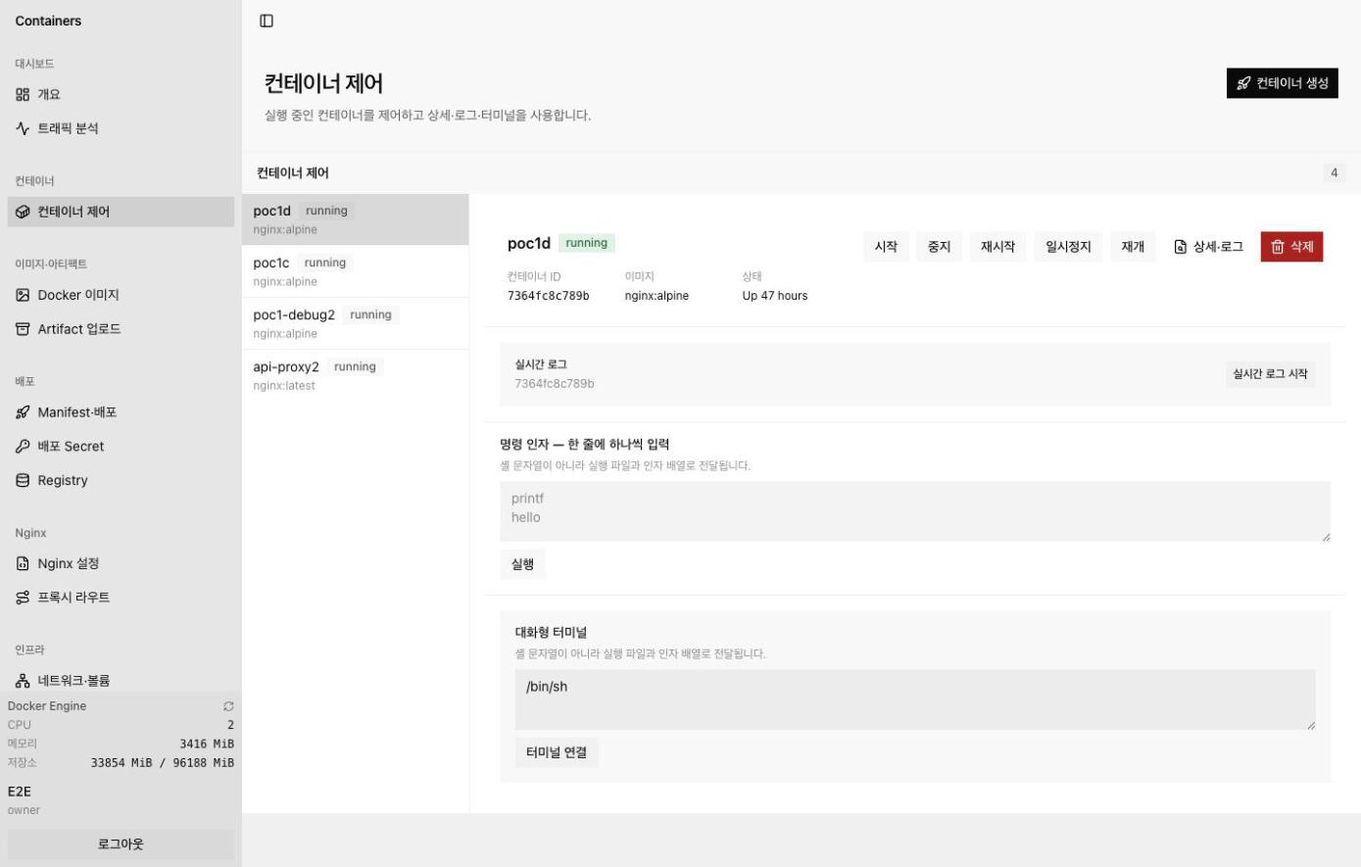
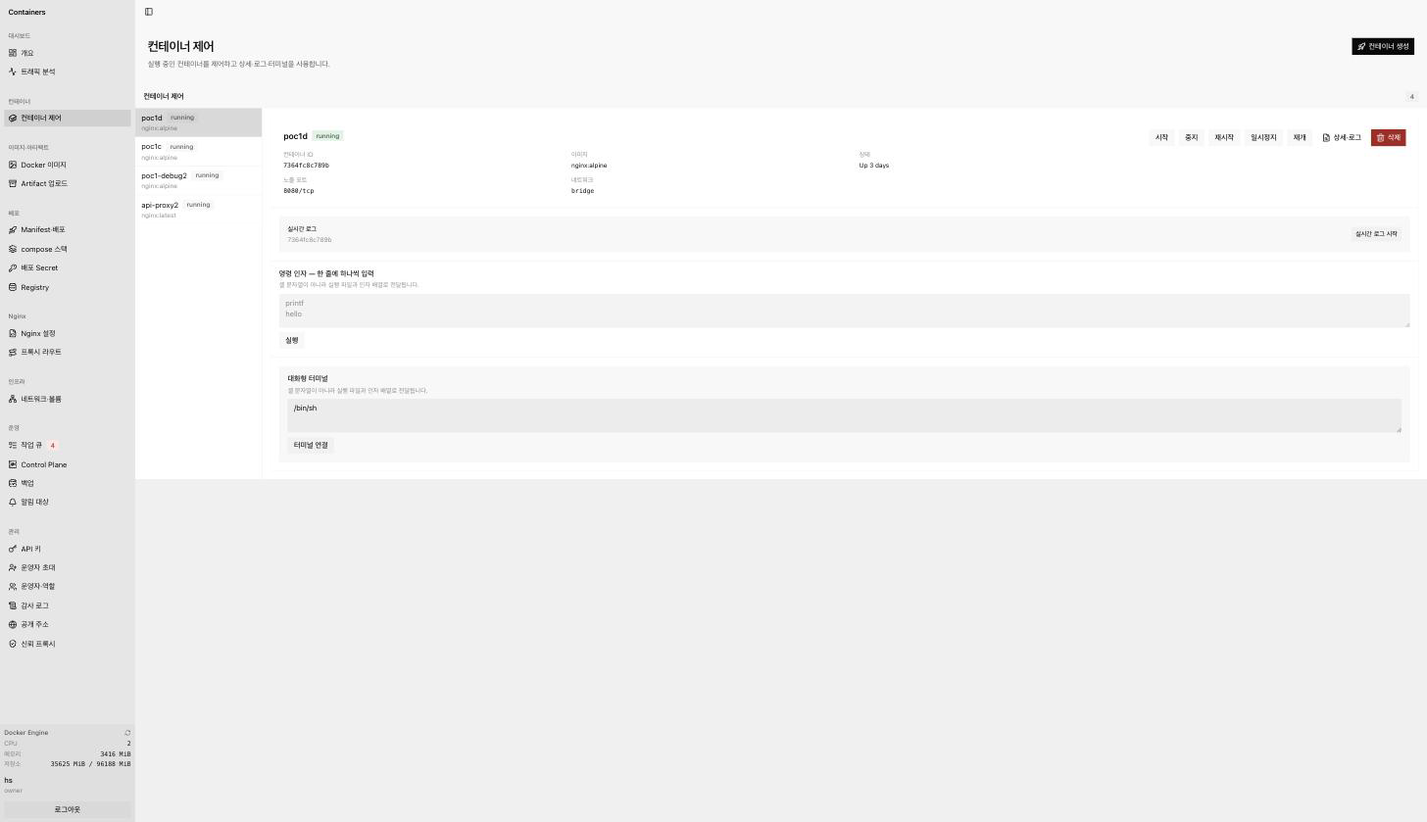
docs: 저장소와 문서를 새 세션이 바로 이어갈 수 있게 정리한다
- 브랜치를 dev 하나로 줄이고 지운 3개의 SHA 와 대체 근거를 history 에 남긴다
- README 스크린샷을 다시 찍는다. 이전 이미지는 사이드바가 잘려 운영·관리
  메뉴가 통째로 빠져 있었다
- README 의 AI 절을 containers-deploy.sh 와 CI 3종 래퍼 구조로 갱신한다
- llm-reference 드리프트 테스트에 API 자원·동작과 DB 테이블 검사를 추가한다
- HANDOFF 의 미해결·환경·다음 TODO·문서 지도를 현재 상태로 다시 쓰고,
  docs 진입점을 HANDOFF 로 정정한다

diff --git a/packages/db-schema/src/llm-reference.test.ts b/packages/db-schema/src/llm-reference.test.ts
@@ -1,5 +1,5 @@
 import { describe, expect, test } from 'bun:test'
-import { readFileSync } from 'node:fs'
+import { readdirSync, readFileSync, statSync } from 'node:fs'
 import { join } from 'node:path'
 import { API_KEY_SCOPE_VALUES } from '@containers/contracts/api-key'
 import { OPERATION_JOB_KIND } from '@containers/contracts/operation-job'
@@ -10,6 +10,25 @@ const reference = readFileSync(join(REPOSITORY_ROOT, 'docs/llm.txt'), 'utf8')
 const composeFile = readFileSync(join(REPOSITORY_ROOT, 'compose.yaml'), 'utf8')
 
 const publishedPort = /PANEL_PORT:-(\d+)/.exec(composeFile)?.[1] ?? ''
+
+const collectFiles = (directory: string): string[] =>
+    readdirSync(directory).flatMap((entry) => {
+        const path = join(directory, entry)
+        return statSync(path).isDirectory() ? collectFiles(path) : [path]
+    })
+
+const PARAMETER_PATTERN = /:[A-Za-z]+|\{[A-Za-z]+\}/g
+
+const normalizedReference = reference.replace(PARAMETER_PATTERN, '*')
+
+const routePaths = collectFiles(join(REPOSITORY_ROOT, 'apps/api/src/route'))
+    .filter((path) => path.endsWith('.ts') && !path.endsWith('.test.ts'))
+    .flatMap((path) => Array.from(readFileSync(path, 'utf8').matchAll(/\.(?:get|post|put|delete|patch)\(\s*\n?\s*'(\/[^']*)'/g)))
+    .map((match) => match[1] ?? '')
+
+const tableNames = Array.from(
+    readFileSync(join(REPOSITORY_ROOT, 'packages/db-schema/src/schema.ts'), 'utf8').matchAll(/sqliteTable\(\s*\n?\s*'([a-z_]+)'/g),
+).map((match) => match[1] ?? '')
 
 describe('docs/llm.txt 가 코드와 어긋나지 않는다', () => {
     test('API key scope 를 하나도 빠뜨리지 않는다', () => {
@@ -37,5 +56,23 @@ describe('docs/llm.txt 가 코드와 어긋나지 않는다', () => {
         expect(publishedPort).not.toBe('')
         expect(reference).toContain(`127.0.0.1:${publishedPort}`)
         expect(reference).not.toContain('127.0.0.1:8080')
+    })
+
+    test('API 자원과 동작을 하나도 빠뜨리지 않는다', () => {
+        const undocumented = routePaths.filter((path) => {
+            const segments = path.split('/').filter((segment) => segment.length > 0 && !segment.startsWith(':'))
+            const [collection] = segments
+            if (collection === undefined) return false
+            if (!normalizedReference.includes(`/api/${collection}`)) return true
+            return segments.slice(1).some((segment) => !normalizedReference.includes(segment))
+        })
+
+        expect(routePaths.length).toBeGreaterThan(0)
+        expect(Array.from(new Set(undocumented))).toEqual([])
+    })
+
+    test('DB 테이블을 하나도 빠뜨리지 않는다', () => {
+        expect(tableNames.length).toBeGreaterThan(0)
+        expect(tableNames.filter((table) => !reference.includes(table))).toEqual([])
     })
 })

diff --git a/docs/HANDOFF.md b/docs/HANDOFF.md
@@ -137,48 +137,57 @@
 
 ## 6. 미해결 질문 / 사용자 확인 필요
 
-1. **로드한 아티팩트를 지울 수 없다.** load 이력(`deployment` 행)이 아티팩트를 영구 참조해 수동 삭제도 보존 정책도 통과하지 못한다. manifest·스택도 삭제 라우트가 없다. A(이력 유지 + 파일만 회수) / B(이력째 삭제) / C(현행 유지) 중 결정이 필요하다 → [bug](./bug/2026-08-06-loaded-artifacts-cannot-be-deleted.md)
-2. **실운영 owner 를 만들어야 한다.** 지금 있는 계정은 실측용 seed(`stack-check@containers.local`) 하나다. `http://127.0.0.1:18080` 에서 bootstrap 으로 실운영 owner 를 만든 뒤 seed 계정을 지우는 것이 순서다(먼저 지우면 패널에 못 들어간다). 공개 주소에서는 bootstrap 이 403 이다.
-3. **공개 주소 설정은 여전히 비어 있다.** `hyuns.uk` 를 패널 신뢰 출처로 쓰려면 owner 로 로그인해 패널 설정에서 지정한다. 라우트 자체는 설정 없이도 동작한다(6.1·6.2 에서 확인).
-4. **control DB 고아 행의 근본 원인은 미해결이다.** 데이터는 사라졌지만 같은 경로로 다시 쌓일 수 있다. `DELETE /api/users/:id` 가 참조를 어떻게 정리할지(무효화/거부/익명화) 결정이 필요하다 → [bug/2026-08-06-control-db-orphan-user-references.md](./bug/2026-08-06-control-db-orphan-user-references.md)
-5. **`containers-dr-*` 이미지 5개**를 남겨 뒀다. 재해복구 드릴 산출물이라 "테스트 것만 삭제" 범위에서 제외했는데, 지울지 확인이 필요하다.
-6. Cloudflare Access 미적용. 패널이 공개 인터넷에 열려 있다.
-7. HSTS `preload` 미적용 — 등재 취소가 어려워 운영자 판단이 필요하다.
+앞선 5건(아티팩트·manifest·스택 삭제, 실운영 owner, 공개 주소, control DB 고아 행, 백업 불가)은 2026-08-06 에 전부 닫혔다. 남은 것은 아래 4건이다.
+
+1. **오프박스 백업이 없다 — 잔여 위험 1위.** 백업이 원본과 같은 호스트 볼륨에만 있다. 사용자 판단으로 보류(둘 곳이 없음). 외장 디스크·NAS·버킷 중 하나가 생기면 백업 job 성공 뒤 사본을 하나 더 만드는 작은 작업이다.
+2. **Cloudflare Access 미적용.** 패널이 공개 인터넷에서 로그인 화면까지 도달한다. 사용자가 "상관없다"고 판단했다. 계정 잠금·rate limit·CSP·짧은 세션이 그 전제 위의 방어다.
+3. **`containers-dr-*` 이미지 5개**를 남겨 뒀다. 재해복구 드릴 산출물이라 정리 범위에서 뺐다. 지울지 확인이 필요하다.
+4. HSTS `preload` 미적용 — 등재 취소가 어려워 운영자 판단이 필요하다.
 
 ## 7. 환경 & 전제
 
 - **런타임**: Bun 1.3.14 workspace(`apps/*` 4 + `packages/*` 4 = 8), TypeScript strict + `exactOptionalPropertyTypes` + `noUncheckedIndexedAccess`.
 - **스택**: Hono 4.13.0, Next.js 16.3.0 App Router + React 19 + React Compiler + Tailwind v4 + next-intl(ko/en/ja) + TanStack Query v5, Drizzle + SQLite, Better Auth 1.6.25.
 - **접속**: `http://127.0.0.1:18080`. **8080 이 아니다** — macOS Docker Desktop 이 그 포트에서 저속 스트림을 버퍼링한다.
-- **계정**: 실측용 seed owner `stack-check@containers.local` 하나. 실운영 owner 는 로컬 주소 bootstrap 으로 따로 만든다(§6-2). 개발 스택에서만 `bun scripts/seed-e2e.ts`.
-- **외부**: `hyuns.uk` 가 Cloudflare 터널로 연결돼 있고 `*` 와일드카드 public hostname 이 설정돼 있다. 패널 쪽 공개 주소 설정은 초기화로 비었다.
+- **계정**: 실운영 owner 하나(사용자 본인). seed 계정은 남아 있지 않다. **공개 주소가 설정된 스택에서 `bun scripts/seed-e2e.ts` 는 스스로 거부한다** — 개발 스택에서만 쓴다. 계정을 초기 상태로 되돌리는 것은 `bun scripts/reset-accounts.ts --confirm` 이며 파괴적이라 사용자가 직접 실행한다.
+- **재인증 창**: 위험한 쓰기(API key 발급, nginx 설정 적용, 백업 복원, 아티팩트 삭제 등)는 **세션 생성 15분 이내**를 요구한다(`RECENT_AUTH_REQUIRED`). 페이지 새로고침으로는 갱신되지 않고 로그아웃 → 로그인이어야 새 세션이 생긴다. 쿠키는 호스트별이라 `127.0.0.1` 과 `hyuns.uk` 세션은 별개다.
+- **외부**: `hyuns.uk` 가 Cloudflare 터널로 연결돼 있고 패널 공개 주소도 `https://hyuns.uk` 로 설정돼 있다(패널 설정 화면). nginx 패널 server 블록의 `server_name` 에 자동으로 추가된다. 터널은 스택 밖 호스트 프로세스라 초기화·재배포와 무관하다.
 - **`Bun.YAML.parse` 가 존재한다** — compose 파싱에 새 의존성이 필요 없다. multi-document 는 첫 문서만 쓴다.
-- **SQLite 주의 2가지**: `PRAGMA foreign_keys` 는 트랜잭션 안에서 무시된다(테이블 재생성 마이그레이션이 실패한다). Drizzle `text({ enum: [...] })` 는 TypeScript 전용이고 CHECK 제약을 만들지 않는다.
+- **SQLite 주의 3가지**: ① `PRAGMA foreign_keys` 는 트랜잭션 안에서 무시된다(테이블 재생성 마이그레이션이 실패한다). ② Drizzle `text({ enum: [...] })` 는 TypeScript 전용이고 CHECK 제약을 만들지 않는다. ③ **`bun:sqlite` 는 연결마다 외래 키가 기본 OFF 다.** 앱은 `database.ts` 에서 켜지만 스크립트는 스스로 켜야 하며, 끄고 지우면 `set null`·`cascade` 가 조용히 실행되지 않는다 → [bug](./bug/2026-08-06-reset-accounts-broke-referential-integrity.md)
+- **시각 컬럼은 초 단위다**: Drizzle `integer({ mode: 'timestamp' })` 는 밀리초를 버린다. 해시·비교에 시각을 넣을 때 밀리초까지 쓰면 저장·재계산이 어긋난다 → [bug](./bug/2026-08-06-audit-chain-hashed-milliseconds.md)
 - **nginx 설정 정본은 관리 볼륨의 `current.conf`** 다. `infra/nginx/nginx.conf` 는 볼륨이 비었을 때 이미지에서 복사되는 기본값이다. **볼륨만 비우고 이미지를 재빌드하지 않으면 옛 기본값이 복사된다**(이번 세션에 CSP 수정이 한 번 유실됐다). 실행 중 반영은 `POST /api/nginx/config/apply`.
 - **새 workspace 패키지**: `apps/*/Dockerfile` 4개에 `COPY` 2줄씩 추가한다.
-- **드리즐 마이그레이션**: 손으로 SQL 을 쓰지 말고 `bun run --cwd packages/db-schema generate` 를 쓴다. 최신은 `0019_smart_beyonder.sql`.
+- **드리즐 마이그레이션**: 손으로 SQL 을 쓰지 말고 `bun run --cwd packages/db-schema generate` 를 쓴다. 최신은 `0026_brave_zarek.sql`.
 - **웹 테스트는 preload 가 달라** raw `bun test` 가 아니라 `bun run test` 를 써야 한다.
 - **브라우저 실측 팁**: MCP `file_upload` 로 `<input type=file>` 에 파일을 넣으면 React state 가 갱신되지 않는다. 페이지 컨텍스트에서 `DataTransfer` 로 `input.files` 를 채우고 `change` 이벤트를 직접 dispatch 해야 폼이 인식한다. 업로드 digest 는 클라이언트가 계산하므로 sha256 불일치는 UI 로 만들 수 없다 — 실패 경로는 잘못된 tar 로 만든다.
 - **명령**: `bun run typecheck` / `lint` / `test` / `build` / `format:check`, `bun audit`, `bun run audit:runtime`, `docker compose build && docker compose up -d --wait`, `./scripts/setup.sh`, `./scripts/setup-macos.sh`, `./scripts/setup-cloudflare-tunnel.sh`, `./scripts/migration-dry-run.sh`, `bun scripts/seed-e2e.ts`, `bun scripts/reset-accounts.ts`.
 
 ## 8. 다음 세션 TODO
 
-**[PLAN-UX-REMEDIATION.md](./PLAN-UX-REMEDIATION.md) 의 미체크 항목이 정본이다.** 아래는 우선순위 요약이다.
+계획서(PLAN-UX-REMEDIATION)는 전부 닫혔다. 다음 마일스톤은 아래에서 고른다. **위에서부터 값이 크다.**
 
-1. **3.3 스택 릴리스 오케스트레이션** — 3.2 가 만든 `deployment_stack_release` 위에서 `depends_on` 위상 순서로 서비스별 릴리스, 실패 시 이미 전환된 서비스를 역순 롤백. job kind 추가 시 고쳐야 하는 곳: `packages/contracts/src/operation-job.ts`(상수 + z.enum 이중 나열), `packages/db-schema/src/schema.ts` kind enum, `create-job-handlers.ts` 핸들러 맵, `create-notification-delivery-service.ts` 의 exhaustive Record, `docs/llm.txt`(드리프트 테스트가 강제).
-2. **3.4 스택 웹 화면** — compose 업로드·미리보기·스택 배포. `artifact-file-drop` 재사용 시 `ACCEPTED_EXTENSIONS` prop 화 필요(호출부도 함께 수정).
-3. **4.1 에러 파싱 통일** — `apps/web/src/shared/lib/parse-api-error.ts` 가 `{error: issue[]}` 를 못 읽는다. finalize 실패가 raw 영어 예외 메시지로 배너에 뜨는 것(1.3 실측에서 확인)도 여기서 정리한다.
-4. **4.2~4.7 마찰 6건** → **5.1~5.3 접근성** → **6.1~6.4 최종 재검증·문서 정합·정리**
+1. **알림 실전송 확인 (5분, 사용자 1단계 필요)** — 알림 대상에 Discord webhook 을 등록하고 `system.report` 를 구독한 뒤 테스트 버튼으로 전송을 확인한다. 이걸 하기 전에는 **감사 체인 꼬리 자르기 탐지가 실제로 동작하지 않는다**(외부 checkpoint 가 이 알림이다). 첫 정기 보고는 마지막 보고가 24시간 지난 뒤 1시간 단위 tick 에서 나간다.
+2. **오프박스 백업** — 저장 위치가 정해지면 백업 job 성공 뒤 사본을 하나 더 만든다. 목적지만 다르고 모양은 같다(다른 디스크 / NAS·ssh / R2·S3). 보류 사유는 §6-1.
+3. **새 머신 설치 E2E** — 2번과 짝이다. 백업을 다른 머신에 올려 처음부터 세우는 절차를 한 번 해본다. 지금은 해본 적이 없어 복구 가능 여부가 미지수다.
+4. **부하·장애 주입** — 목표 규모 부하 테스트, 디스크 가득 참·docker 데몬 재시작·컨테이너 OOM 시 동작 확인. SQLite 단일 파일의 한계를 실측으로 잡는다.
+5. **감사 로그 export** — server-side filter 는 있고 export 가 없다(HANDOFF-STATUS P1-7).
+6. **UI 품질** — 모바일·다크·키보드·스크린리더 전수 검증(P2-2), 대시보드 정보 구조 재설계(P2-1).
+
+### 새 세션이 먼저 할 일
+
+1. 이 문서 §2.1(실운영 판정)·§6(미해결)·§7(환경) 을 읽는다.
+2. [RESUME-CHECKLIST.md](./RESUME-CHECKLIST.md) §3 읽기 전용 점검으로 현재 값을 직접 확인한다(문서 수치를 믿지 않는다).
+3. 코드를 건드리면 종료 전 `bun run typecheck` → `lint` → `test` → `build`, 스택이 떠 있으면 `bun run audit:runtime` 까지 통과시킨다.
 
 ## 9. 문서 지도
 
 | 문서                                                                                                  | 다루는 것                                                                              |
 | ----------------------------------------------------------------------------------------------------- | -------------------------------------------------------------------------------------- |
 | `HANDOFF.md`                                                                                          | (이 문서) 세션 인수인계 단일 진입점. **현재 상태·검증 수치·다음 작업의 단독 소유자**   |
-| `PLAN-UX-REMEDIATION.md`                                                                              | **진행 중 작업의 실행 계획 정본.** 항목별 문제·근거·할 일·주의·완료 판정·실측 결과     |
+| `PLAN-UX-REMEDIATION.md`                                                                              | **완료된** 실행 계획(2026-08-06 전 항목 종료). 항목별 문제·근거·주의·완료 판정·실측    |
 | `quality-assurance/2026-08-05-panel-ux-audit.md`                                                      | UX 감사 원본(64건 → 44건 → 12원인) + 배포 런타임 실측                                  |
 | `../CLAUDE.md`                                                                                        | 저장소 에이전트 실행 규칙(호스트 격리 우회·서비스 노출 금지)                           |
-| `RESUME-CHECKLIST.md`                                                                                 | 재개 절차와 안전 불변식. 초기화 이후 전제(owner 없음) 포함                             |
+| `RESUME-CHECKLIST.md`                                                                                 | 재개 절차와 안전 불변식, 읽기 전용 점검 명령                                           |
 | `HANDOFF-STATUS.md`                                                                                   | 구현 범위·한계·시점 검증 증거                                                          |
 | `PROCESS.md`                                                                                          | 작업 체크리스트(시간순 전체 이력) + 초기화 기록                                        |
 | `ARCHITECTURE.md`                                                                                     | 서비스 구성, 네트워크·권한 경계, 데이터 흐름                                           |
@@ -197,9 +206,11 @@
 | `TESTING.md`                                                                                          | 검증 사다리와 checkpoint                                                               |
 | `llm.txt`                                                                                             | AI용 자족 레퍼런스. `packages/db-schema/src/llm-reference.test.ts` 가 드리프트를 강제  |
 | `README.md`                                                                                           | docs 디렉터리 안내                                                                     |
-| `acknowledge/`                                                                                        | 결정 기록(ADR). **최신 0040**                                                          |
-| `bug/`                                                                                                | 결함 기록. 최신 2건은 2026-08-06 CSP·고아 행                                           |
+| `acknowledge/`                                                                                        | 결정 기록(ADR). **최신 0042**                                                          |
+| `bug/`                                                                                                | 결함 기록 9건. 2026-08-06 만 6건이고 전부 라이브 실측이 잡았다(정적 검사는 통과했다)   |
 | `quality-assurance/`                                                                                  | 감사·드릴 실행 기록                                                                    |
+| `history/`                                                                                            | 세션별 이력. 2026-08-06 브랜치 정리 기록 포함(지운 브랜치 SHA)                         |
+| `ci-examples/`                                                                                        | 빌드 CI 3종 + 배포 스크립트 `containers-deploy.sh` + 이를 부르는 CI 3종                |
 | `ci-examples/`                                                                                        | 빌드 CI 3종 + API key 배포 스크립트 1개와 이를 부르는 GitHub·Gitea·GitLab 워크플로 3종 |
 | `history/`                                                                                            | 세션별 시점 기록(현재 상태 아님)                                                       |
 | `PRODUCT-REQUIREMENTS.md`·`REQUIREMENTS-TRACEABILITY.md`·`IMPLEMENTATION-PLAN.md`·`OPEN-DECISIONS.md` | 요구사항·추적·초기 계획(시점 기록)                                                     |

diff --git a/README.md b/README.md
@@ -9,11 +9,11 @@ It lets you control Docker containers, create and deploy them, inspect live traf
 <details>
 <summary>More screens</summary>
 
-|                                                                                        |                                                                         |
-| -------------------------------------------------------------------------------------- | ----------------------------------------------------------------------- |
-| ![Dashboard](screenshots/ko-dashboard.png) Operations overview                         | ![Traffic](screenshots/ko-traffic.png) Traffic analytics with live tail |
-| ![Nginx GUI editor](screenshots/ko-nginx-gui.png) Nginx GUI config editor              | ![Nginx raw editor](screenshots/ko-nginx.png) Raw config with revisions |
-| ![Deployments](screenshots/ko-deployments.png) Immutable manifest / blue-green release |                                                                         |
+|                                                                                        |                                                                                   |
+| -------------------------------------------------------------------------------------- | --------------------------------------------------------------------------------- |
+| ![Dashboard](screenshots/ko-dashboard.png) Operations overview                         | ![Traffic](screenshots/ko-traffic.png) Traffic analytics with live tail           |
+| ![Nginx GUI editor](screenshots/ko-nginx-gui.png) Nginx GUI config editor              | ![Nginx raw editor](screenshots/ko-nginx.png) Raw config with revisions           |
+| ![Deployments](screenshots/ko-deployments.png) Immutable manifest / blue-green release | ![Containers](screenshots/ko-containers.png) Container control with logs and exec |
 
 </details>
 
@@ -111,14 +111,18 @@ reference of the architecture, every API endpoint, the SQLite schema, the auth
 and security model, and the deployment pipeline, tuned for LLM consumption.
 
 - `docs/llm.txt` — full AI-ready project reference (endpoints, DB, security, flows)
-- `docs/ci-examples/` — ready-to-drop CI workflows:
-    - `github-actions.yml` — `.github/workflows/ci.yml` (typecheck · lint · test · build)
-    - `gitea-actions.yml` — `.gitea/workflows/ci.yml`
-    - `gitlab-ci.yml` — `.gitlab-ci.yml`
-    - `github-actions-deploy.yml` — unattended deploy driven only by an API key
-      (upload → image load → manifest → blue-green release → verdict from the job status).
+- `docs/ci-examples/` — ready-to-drop CI files:
+    - Build CI: `github-actions.yml` (`.github/workflows/ci.yml`, typecheck · lint · test · build),
+      `gitea-actions.yml`, `gitlab-ci.yml`
+    - `containers-deploy.sh` — the deploy driver. One script holds the call order and the
+      success verdict: `deploy` (upload → image load → manifest → blue-green release),
+      `stack` (compose preview → register → stack release) and `rollback`. Copy it into your
+      repository (e.g. `ci/containers-deploy.sh`); its call sequence is covered by
+      `containers-deploy.test.ts` against a stub server.
+    - `github-actions-deploy.yml`, `gitea-actions-deploy.yml`, `gitlab-ci-deploy.yml` — thin
+      wrappers that call that script, so the three CI systems cannot drift apart.
       The runner must be able to reach the panel, so use a self-hosted runner on the same
-      host or expose the API over HTTPS through a tunnel.
+      host or expose the API over HTTPS through a tunnel. API keys expire in at most 365 days.
 - `docs/README.md` — human-facing documentation index
 
 Human-facing documentation lives in [`docs/`](docs/README.md).

diff --git a/docs/README.md b/docs/README.md
@@ -1,6 +1,6 @@
 # Containers 프로젝트 문서
 
-이 디렉터리는 제품·아키텍처·보안·구현 상태·테스트 지시서의 단일 출처다. 구현은 진행 중이며 새 세션은 반드시 `RESUME-CHECKLIST.md`부터 읽는다.
+이 디렉터리는 제품·아키텍처·보안·구현 상태·테스트 지시서의 단일 출처다. **새 세션은 [HANDOFF.md](./HANDOFF.md) 부터 읽는다** — 현재 상태·검증 수치·다음 할 일이 거기 있고, 그다음 [RESUME-CHECKLIST.md](./RESUME-CHECKLIST.md) 의 재개 절차를 실행한다.
 
 ## 문서 순서
 
@@ -33,11 +33,13 @@
 26. [quality-assurance/2026-08-04-ui-backend-audit.md](./quality-assurance/2026-08-04-ui-backend-audit.md) — 웹 UI/UX·백엔드 6영역 감사(findings 132건)
 27. [quality-assurance/2026-08-04-production-readiness.md](./quality-assurance/2026-08-04-production-readiness.md) — 실운영·CI API 운용 준비도 판정과 3단계 로드맵
 28. [quality-assurance/2026-08-05-disaster-recovery-drill.md](./quality-assurance/2026-08-05-disaster-recovery-drill.md) — 새 호스트 재해복구 드릴 실행 기록
-29. [PLAN-UX-REMEDIATION.md](./PLAN-UX-REMEDIATION.md) — 진행 중 실행 계획: UX 감사 후속·런타임 개방·compose 스택 (항목별 근거·주의·완료 판정)
+29. [PLAN-UX-REMEDIATION.md](./PLAN-UX-REMEDIATION.md) — **완료된** 실행 계획: UX 감사 후속·런타임 개방·compose 스택 (항목별 근거·주의·완료 판정). 2026-08-06 에 전 항목을 닫았다
 30. [quality-assurance/2026-08-05-panel-ux-audit.md](./quality-assurance/2026-08-05-panel-ux-audit.md) — 패널 UX 감사(원본 64건 → 검증 44건 → 원인 12개)와 배포 런타임 제약 실측
 31. `ci-examples/` — CI 예제. 빌드 CI 3종과, API key 배포 스크립트 `containers-deploy.sh` + 이를 부르는 GitHub·Gitea·GitLab 워크플로
-32. `acknowledge/` — 번호 순 확정 결정 기록 (최신: 0036 공개 주소 단일 출처·종료 드레인)
-33. `history/` — 세션별 작업 이력 (시간순, 현재 상태가 아님)
+32. `acknowledge/` — 번호 순 확정 결정 기록 (최신: 0042 스택 배포 오케스트레이션)
+33. `bug/` — 결함 기록. 증상·원인·수정·교훈을 한 건씩 남긴다. 라이브 실측으로 잡은 것이 대부분이다
+34. [llm.txt](./llm.txt) — AI 참조용 단일 파일(아키텍처·전 엔드포인트·스키마·보안·배포 흐름). 코드와 어긋나면 `packages/db-schema/src/llm-reference.test.ts` 가 깨진다
+35. `history/` — 세션별 작업 이력 (시간순, 현재 상태가 아님)
 
 처음 설치·기동할 때는 저장소 루트의 `scripts/setup.sh` 를 실행한다(환경 확인 → compose 검증·override 생성 → 기동 → 스모크 테스트). macOS(Docker Desktop)와 Linux(rootful Docker Engine)를 모두 지원하며, Linux 에서는 `/var/run/docker.sock` 의 그룹 GID 를 탐지해 override 의 `engine-agent.group_add` 에 기록한다. 패널 포트·호스트를 바꾸면 `AUTH_BASE_URL`·`PANEL_PUBLIC_URL`·`AUTH_TRUSTED_ORIGINS` 를 함께 기록해 인증 origin 검사가 깨지지 않게 한다. `scripts/setup-macos.sh` 는 `setup.sh` 로 위임하는 하위호환 래퍼다. CI·무인 프로비저닝은 `--non-interactive`(stdin 이 TTY 가 아니면 자동 적용)로 질문 없이 실행하며, 모든 프롬프트를 동명 플래그·환경변수로 대체하고 `--start-mode build|up|skip` 으로 기동 방식을 정한다(`scripts/setup.sh --help`).
 

diff --git a/docs/PROCESS.md b/docs/PROCESS.md
@@ -764,6 +764,8 @@ prune dry-run·관리 plane 보호는 Phase 13 으로 분리한다.
 
 **다음 세션 전제: owner 계정이 없다.** `http://127.0.0.1:18080` 에서 bootstrap 으로 만들어야 한다.
 
+> (2026-08-06 후속으로 해소) 사용자가 계정을 초기화하고 bootstrap 으로 실운영 owner 를 만들었으며, 패널 설정에서 공개 주소도 `https://hyuns.uk` 로 복구했다. 이 절은 그 시점의 기록이다.
+
 ### 오탐 기록
 
 - "관리 plane 컨테이너가 라우트 대상 목록에 노출" — 반증 검증을 통과했으나 실제로는 engine-agent 가 이미 필터한다. 실 API 응답으로 확인.
@@ -874,3 +876,11 @@ prune dry-run·관리 plane 보호는 Phase 13 으로 분리한다.
 - 테스트 4건(정상·끊김·지표·빈 상태)
 
 **보류 결정**: 백업 오프박스 사본은 둘 곳이 없어 구현하지 않는다(사용자 판단). `CF-Connecting-IP` 위조도 로컬 권한자 한정·로그 오염뿐이라 손대지 않는다.
+
+## 작업: 저장소·문서 정리 (2026-08-06 마감)
+
+- [x] **브랜치 정리** — `dev` 하나만 남겼다. 지운 3개의 마지막 SHA 와 대체 근거는 [history/2026-08-06-branch-cleanup.md](./history/2026-08-06-branch-cleanup.md)
+- [x] **README 스크린샷 교체** — 이전 이미지는 사이드바가 "네트워크·볼륨"에서 잘려 운영·관리 메뉴가 통째로 빠져 있었다. 뷰포트를 키워 전 메뉴가 보이게 다시 찍었다(개요·트래픽·nginx raw·nginx GUI·Manifest 배포·컨테이너 6장). 공개 저장소라 도메인·이메일이 보이지 않는 화면으로 골랐다
+- [x] **README AI 절 갱신** — `containers-deploy.sh` 와 CI 3종 래퍼 구조를 반영
+- [x] **AI 참조 정합성 강화** — `llm-reference.test.ts` 에 검사 2건 추가: 모든 API 자원·동작이 `llm.txt` 에 있는지, 모든 DB 테이블이 있는지. `/api/deployment-stacks` 를 일부러 깨뜨려 실제로 실패하는 것을 확인했다
+- [x] **문서 정합** — `docs/README.md` 진입점을 HANDOFF 로 정정하고 `bug/`·`llm.txt` 항목 추가, acknowledge 최신 번호 갱신. HANDOFF §6(미해결)·§7(환경)·§8(다음 TODO)·§9(문서 지도)를 현재 상태로 다시 썼다. HANDOFF-STATUS 의 P0·P1 한계를 해소분 반영해 갱신했다. 고아 참조 bug 문서에 해소 절을 붙였다

diff --git a/docs/history/2026-08-06-branch-cleanup.md b/docs/history/2026-08-06-branch-cleanup.md
@@ -1,0 +1,23 @@
+# 브랜치 정리 (2026-08-06)
+
+`dev` 하나만 남긴다. 지운 브랜치의 마지막 커밋을 여기 적어 두므로 필요하면 `git checkout <sha>` 로 되살릴 수 있다.
+
+| 브랜치                              | 마지막 커밋 | 날짜       | 상태                                           |
+| ----------------------------------- | ----------- | ---------- | ---------------------------------------------- |
+| `feat/web-ui-refresh`               | `859f7c7`   | 2026-08-04 | `dev` 에 이미 포함(ancestor). 남길 이유가 없다 |
+| `feat/web-panel-sidebar-navigation` | `efc1da3`   | 2026-08-03 | `dev` 가 구조를 다시 짜면서 대체됐다           |
+| `rest-work/deepseekv4`              | `e1abb1a`   | 2026-08-02 | 같은 이유로 대체됐다                           |
+
+## 대체됐다고 판단한 근거
+
+두 브랜치에만 있던 파일은 아래 3~4개뿐이고, 전부 `dev` 에서 다른 이름·구조로 존재한다.
+
+| 브랜치의 파일                                  | `dev` 의 대응                                         |
+| ---------------------------------------------- | ----------------------------------------------------- |
+| `apps/traffic-worker/src/lib/app-error.ts`     | `apps/traffic-worker/src/lib/error.ts` + `error-code` |
+| `apps/web/src/shared/ui/inline-alert.tsx`      | `apps/web/src/shared/ui/alert.tsx`                    |
+| `apps/web/src/entities/engine/engine-info.tsx` | `apps/web/src/widgets/engine/*`                       |
+| `apps/web/src/widgets/control-plane-control/*` | `apps/web/src/widgets/control-plane/*`                |
+| `apps/web/src/widgets/notification-control/*`  | `apps/web/src/widgets/notification/*`                 |
+
+`scripts/setup-macos.sh` 처럼 diff 에 크게 잡히던 파일도 `dev` 에 그대로 있다. 차이의 대부분은 두 브랜치가 갈라진 뒤 `dev` 가 훨씬 앞서 나가면서 생긴 것이다.

diff --git a/docs/RESUME-CHECKLIST.md b/docs/RESUME-CHECKLIST.md
@@ -11,7 +11,8 @@
 - **2026-08-06 전체 초기화를 했다.** `control-data`·`traffic-data`·`artifacts`·`backups`·`nginx-config`·`nginx-logs` 볼륨을 지웠고 자격증명 볼륨 3종만 남겼다. 따라서:
     - **owner 계정과 공개 주소는 2026-08-06 재설정을 마쳤다.** 사용자가 `bun scripts/reset-accounts.ts --confirm` 으로 seed 계정을 비운 뒤 `http://127.0.0.1:18080` 에서 실운영 owner 를 bootstrap 했고, 패널 설정에서 공개 주소를 `https://hyuns.uk` 로 되돌렸다(초기화가 `panel_setting` 을 비워 그때까지 hyuns.uk 요청이 전부 444/502 였다).
     - 계정이 다시 비어 bootstrap 이 필요하면 로컬 이름에서만 된다. bootstrap 허용 host 는 `127.0.0.1`·`localhost`·`::1`·`panel.containers.local`·`api.containers.local` 이고(`packages/config/src/bootstrap-origin.ts`), 공개 주소로 오면 `BOOTSTRAP_ORIGIN_FORBIDDEN` 이다.
-    - 신뢰 프록시·API 키·감사 로그·배포·라우트는 비어 있다.
+    - 신뢰 프록시·API 키·라우트는 비어 있다. 감사 로그와 배포 이력은 그 뒤 실측으로 다시 쌓였고, 정리 후 릴리스 이력 일부와 그 manifest 만 남아 있다.
+    - **알림 대상이 0건이다.** `system.report` 를 구독하는 대상이 없으면 감사 체인 head 가 호스트 밖으로 나가지 않아 꼬리 자르기를 탐지할 수 없다 → [HANDOFF.md](./HANDOFF.md) §8-1.
     - `/data/ingest-checkpoint.json` 은 **첫 트래픽 인입 뒤에 생성된다.** 초기화 직후 `stat` 실패는 정상이다.
 - Compose 5개 서비스 `nginx`·`web`·`api`·`engine-agent`·`traffic-worker` 가 healthy 여야 한다.
 

diff --git a/docs/bug/2026-08-06-control-db-orphan-user-references.md b/docs/bug/2026-08-06-control-db-orphan-user-references.md
@@ -45,3 +45,9 @@
 - `audit_log` 는 append-only 가 원칙이라(`SECURITY.md` §11) 삭제도 수정도 함부로 할 수 없다. 62건이 여기 있었다.
 - ~~`api_key` 9건 확인~~ — 초기화로 전부 사라졌다. 소유자 없는 유효 키가 남을 위험은 지금은 없다.
 - 근본 원인 1번(사용자 삭제 경로)이 맞다면 `DELETE /api/users/:id` 가 참조를 어떻게 정리할지(참조 무효화 / 삭제 거부 / 익명화)를 결정해야 한다.
+
+## 해소 (2026-08-06)
+
+근본 원인이 밝혀져 고쳤다. `scripts/reset-accounts.ts` 가 `bun:sqlite` 기본값(`PRAGMA foreign_keys` OFF) 때문에 외래 키를 끈 채 사용자를 지워 `set null`·`cascade` 가 하나도 실행되지 않은 것이었다. 상세와 수정 범위는 [2026-08-06-reset-accounts-broke-referential-integrity.md](./2026-08-06-reset-accounts-broke-referential-integrity.md) 를 본다.
+
+`DELETE /api/users/:id` 가 이력을 어떻게 다룰지에 대한 질문도 함께 닫혔다 — 이력 8개 테이블의 `created_by` 를 nullable + `on delete set null` 로 바꿔(migration `0026`) **계정을 지워도 이력은 남고 귀속만 비는** 쪽으로 정했다.
